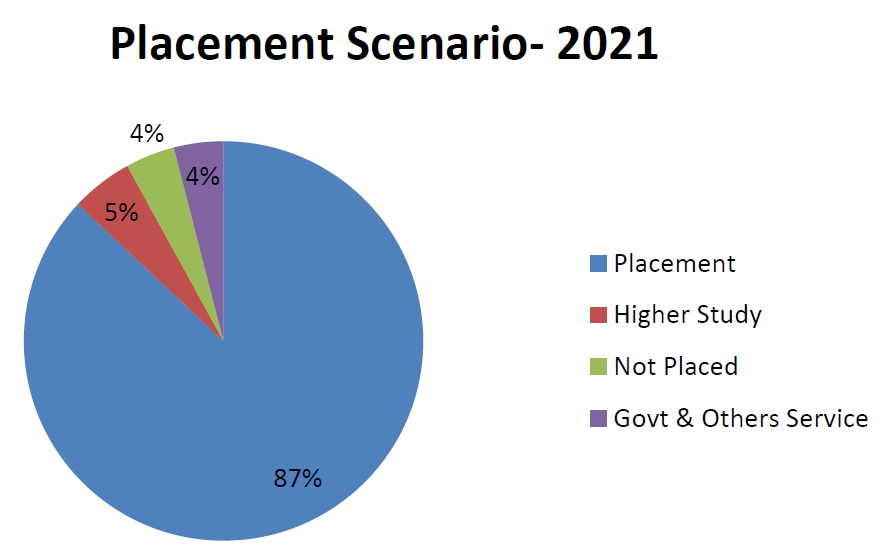
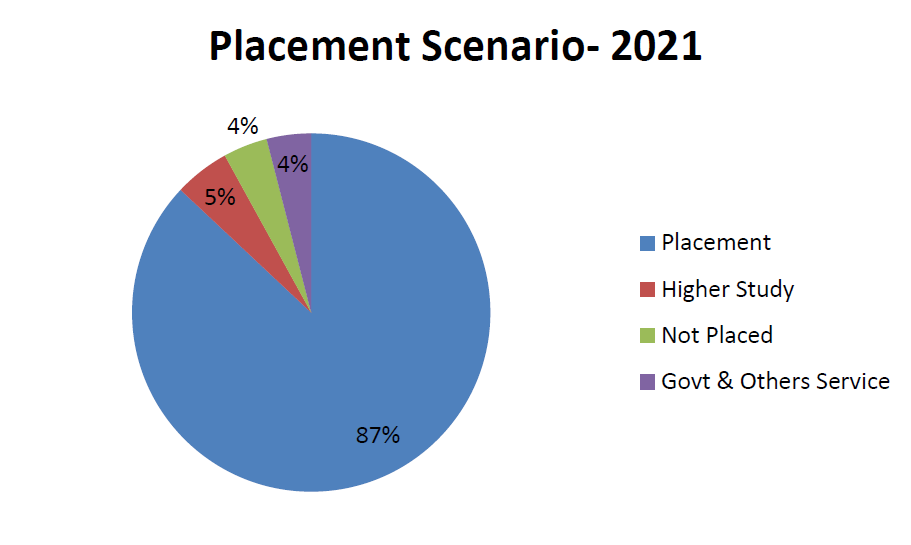
initial commit

diff --git a/placement.html b/placement.html
@@ -20,6 +20,27 @@
     <link rel="stylesheet" type="text/css" href="assets/css/card.css">
     <link rel="preconnect" href="https://fonts.gstatic.com">
 
+<style>
+    table {
+        font-family: arial, sans-serif;
+        border-collapse: collapse;
+        width: 100%;
+    }
+
+    td,
+    th {
+        border: 1px solid #dddddd;
+        text-align: center;
+        padding: 8px;
+        font-size: larger;
+
+    }
+
+    tr:nth-child(even) {
+        background-color: #dddddd;
+    }
+</style>
+
 </head>
 
 <body>
@@ -120,7 +141,7 @@
             <ul class="breadcrumb">
                 <li><a href="index.html">Home</a></li>
                 <li>
-                    Product
+                    Placement
                 </li>
             </ul>
         </div>
@@ -128,16 +149,18 @@
         <div class="col-md-3">
             <div class="panel panel-default sidebar-menu">
                 <div class="panel-heading">
-                    <h1 class="panel-title"><b>Product Categories</b></h1>
+                    <h1 class="panel-title"><b>Companies</b></h1>
                 </div>
                 <div class="panel-body">
                     <ul class="nav nav-pills nav-stacked category-menu">
-                        <li><a href="product.html">Jackets</a></li>
-                        <li><a href="product.html">Watches</a></li>
-                        <li><a href="product.html">Shoes</a></li>
-                        <li><a href="product.html">Suits</a></li>
-                        <li><a href="product.html">T-shirts</a></li>
-                        <li><a href="product.html">Bags</a></li>
+                        <li><a>Accenture</a></li>
+                        <li><a>Capgemini</a></li>
+                        <li><a>TCS</a></li>
+                        <li><a>CTS</a></li>
+                        <li><a>IBM</a></li>
+                        <li><a>Infosys</a></li>
+                        <li><a>BYJU’S</a></li>
+                   
                     </ul>
                 </div>
             </div>
@@ -160,14 +183,14 @@
 
             <div class="panel panel-default sidebar-menu">
                 <div class="panel-heading">
-                    <h1 class="panel-title"><b>Price</b></h1>
+                    <h1 class="panel-title"><b>Average Package</b></h1>
 
                 </div>
                 <div class="panel-body">
                     <input type="range" min="100" max="1000" step="100" class="form-control-range"
                         style="padding: 5px;">
                     <center>
-                        <h3 class="panel-title"><b>Rs 100 - &nbsp;Rs 1000</b></h3>
+                        <h3 class="panel-title"><b>3.5 LPA  - 10 LPA</b></h3>
                     </center>
                 </div>
             </div>
@@ -176,185 +199,35 @@
 
         <!-- Right Side Products Start -->
         <div class="col-md-9">
-            <div class="box" style="box-shadow: 0 1px 5px rgba(0,0,0,0.7);">
-                <h1>Product</h1>
-                <p>This theme is created by Arijit Saha Ray, who is currently studying B.Tech in CSE.</p>
-                <p>An online shop evokes the physical analogy of buying products or services at a regular
-                    "bricks-and-mortar" retailer or shopping center; the process is called business-to-consumer online
-                    shopping. When an online store is set up to enable businesses to buy from another businesses, the
-                    process is called business-to-business online shopping.</p>
-            </div>
-            <!-- Products Details -->
-            <div class="row">
-                <!-- Product Starts -->
-                <div class="col-md-4 col-sm-6 center responsive">
-                    <div class="product">
-                        <a href="details.html">
-                            <img src="assets/img/man-3.jpg" class="img-responsive">
-                        </a>
-                        <div class="text">
-                            <h3>
-                                <a href="details.html">Pineapple Jacket</a>
-                            </h3>
-                            <p class="price">Rs 1250</p>
-                            <center>
-                                <p class="rating"><i class="fa fa-star"></i>
-                                    <i class="fa fa-star"></i>
-                                    <i class="fa fa-star"></i>
-                                    <i class="fa fa-star"></i>
-                                    <i class="fa fa-star-o"></i>
-                                </p>
-                            </center>
-                            <p class="buttons">
-                                <a href="details.html" class="btn btn-default">View Details</a>
-                                <a href="cart.html" class="btn btn-primary"><i class="fa fa-shopping-cart"></i>Add to
-                                    Cart</a>
-                            </p>
-                        </div>
-                    </div>
-                </div>
-                <!-- Product Ends -->
-                <!-- Product Starts -->
-                <div class="col-md-4 col-sm-6 center responsive">
-                    <div class="product">
-                        <a href="details.html">
-                            <img src="assets/img/product-2.jpg" class="img-responsive">
-                        </a>
-                        <div class="text">
-                            <h3>
-                                <a href="details.html">Leather Jacket</a>
-                            </h3>
-                            <p class="price">Rs 780</p>
-                            <center>
-                                <p class="rating"><i class="fa fa-star"></i>
-                                    <i class="fa fa-star"></i>
-                                    <i class="fa fa-star"></i>
-                                    <i class="fa fa-star"></i>
-                                    <i class="fa fa-star-half-o"></i>
-                                </p>
-                            </center>
-                            <p class="buttons">
-                                <a href="details.html" class="btn btn-default">View Details</a>
-                                <a href="cart.html" class="btn btn-primary"><i class="fa fa-shopping-cart"></i>Add to
-                                    Cart</a>
-                            </p>
-                        </div>
-                    </div>
-                </div>
-                <!-- Product Ends -->
-                <!-- Product Starts -->
-                <div class="col-md-4 col-sm-6 center responsive">
-                    <div class="product">
-                        <a href="details.html">
-                            <img src="assets/img/thumb-5.png" class="img-responsive">
-                        </a>
-                        <div class="text">
-                            <h3>
-                                <a href="details.html">Hooded Thermal Anorak</a>
-                            </h3>
-                            <p class="price">Rs 1499</p>
-                            <center>
-                                <p class="rating"><i class="fa fa-star"></i>
-                                    <i class="fa fa-star"></i>
-                                    <i class="fa fa-star"></i>
-                                    <i class="fa fa-star-half-o"></i>
-                                    <i class="fa fa-star-o"></i>
-                                </p>
-                            </center>
-                            <p class="buttons">
-                                <a href="details.html" class="btn btn-default">View Details</a>
-                                <a href="cart.html" class="btn btn-primary"><i class="fa fa-shopping-cart"></i>Add to
-                                    Cart</a>
-                            </p>
-                        </div>
-                    </div>
-                </div>
-                <!-- Product Ends -->
-                <!-- Product Starts -->
-                <div class="col-md-4 col-sm-6 center responsive">
-                    <div class="product">
-                        <a href="details.html">
-                            <img src="assets/img/product-5.jpg" class="img-responsive">
-                        </a>
-                        <div class="text">
-                            <h3>
-                                <a href="details.html">Cotton T-Shirt</a>
-                            </h3>
-                            <p class="price">Rs 499</p>
-                            <center>
-                                <p class="rating"><i class="fa fa-star"></i>
-                                    <i class="fa fa-star"></i>
-                                    <i class="fa fa-star"></i>
-                                    <i class="fa fa-star"></i>
-                                    <i class="fa fa-star-half-o"></i>
-                                </p>
-                            </center>
-                            <p class="buttons">
-                                <a href="details.html" class="btn btn-default">View Details</a>
-                                <a href="cart.html" class="btn btn-primary"><i class="fa fa-shopping-cart"></i>Add to
-                                    Cart</a>
-                            </p>
-                        </div>
-                    </div>
-                </div>
-                <!-- Product Ends -->
-                <!-- Product Starts -->
-                <div class="col-md-4 col-sm-6 center responsive">
-                    <div class="product">
-                        <a href="details.html">
-                            <img src="assets/img/product-4.jpg" class="img-responsive">
-                        </a>
-                        <div class="text">
-                            <h3>
-                                <a href="details.html">Leather Hoodie</a>
-                            </h3>
-                            <p class="price">Rs 1250</p>
-                            <center>
-                                <p class="rating"><i class="fa fa-star"></i>
-                                    <i class="fa fa-star"></i>
-                                    <i class="fa fa-star"></i>
-                                    <i class="fa fa-star"></i>
-                                    <i class="fa fa-star-o"></i>
-                                </p>
-                            </center>
-                            <p class="buttons">
-                                <a href="details.html" class="btn btn-default">View Details</a>
-                                <a href="cart.html" class="btn btn-primary"><i class="fa fa-shopping-cart"></i>Add to
-                                    Cart</a>
-                            </p>
-                        </div>
-                    </div>
-                </div>
-                <!-- Product Ends -->
-                <!-- Product Starts -->
-                <div class="col-md-4 col-sm-6 center responsive">
-                    <div class="product">
-                        <a href="details.html">
-                            <img src="assets/img/product-12.jpg" class="img-responsive">
-                        </a>
-                        <div class="text">
-                            <h3>
-                                <a href="details.html">Tumbo Hoodie</a>
-                            </h3>
-                            <p class="price">Rs 867</p>
-                            <center>
-                                <p class="rating"><i class="fa fa-star"></i>
-                                    <i class="fa fa-star"></i>
-                                    <i class="fa fa-star"></i>
-                                    <i class="fa fa-star"></i>
-                                    <i class="fa fa-star-half-o"></i>
-                                </p>
-                            </center>
-                            <p class="buttons">
-                                <a href="details.html" class="btn btn-default">View Details</a>
-                                <a href="cart.html" class="btn btn-primary"><i class="fa fa-shopping-cart"></i>Add to
-                                    Cart</a>
-                            </p>
-                        </div>
-                    </div>
-                </div>
-                <!-- Product Ends -->
-            </div>
+<div class="box" style="box-shadow: 0 1px 5px rgba(0,0,0,0.7); height: 350px; ">
+    <img src="assets/images/pieChart.png" class="img-responsive">
+</div>
+
+            <div class="box" style="box-shadow: 0 1px 5px rgba(2, 1, 1, 0.7);">
+                <h1>HIGHEST PACKAGE OFFERED LAST THREE YEARS</h1>
+               
+                    <table>
+                        <tr>
+                            <th>Year</th>
+                            <th>INR</th>                       
+                        </tr>
+                        <tr>
+                            <td>2021</td>
+                            <td>10,00,000</td>                       
+                        </tr>
+                        <tr>
+                            <td>2020</td>
+                            <td>10,00,000</td>                       
+                        </tr>
+                        <tr>
+                            <td>2019</td>
+                            <td>7,00,000</td>                       
+                        </tr>
+                        </table>
+
+
+            </div>         
+
         </div>
         <!-- Right Side Products End -->
 
@@ -377,7 +250,7 @@
                     <ul>
                         <li><a href="cart.html">Shopping Cart</a></li>
                         <li><a href="contact.html">Contact Us</a></li>
-                        <li><a href="">Product</a></li>
+                        <li><a href="">Placement</a></li>
                         <li><a href="progress.html">My Account</a></li>
                     </ul>
                     <hr>
